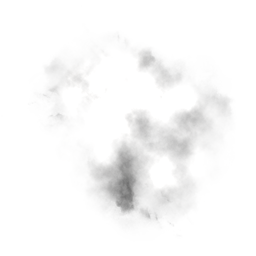
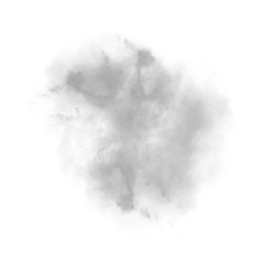
Humo arreglado y bonito

Changed region(s): [[0.2188, 0.1562, 0.8125, 0.8438]]

diff --git a/MiGrupo/Efectos/Humo.cs b/MiGrupo/Efectos/Humo.cs
@@ -2,6 +2,7 @@
 using Microsoft.DirectX.Direct3D;
 using System;
 using System.Collections.Generic;
+using System.Drawing;
 using System.Linq;
 using System.Text;
 using TgcViewer;
@@ -12,7 +13,7 @@ namespace AlumnoEjemplos.MiGrupo.Efectos
 {
     class Humo
     {
-
+        public float a;
         TgcBox box1;
         TgcBox box2;
         TgcBox box3;
@@ -31,7 +32,7 @@ namespace AlumnoEjemplos.MiGrupo.Efectos
 
         public Humo(Vector3 position)
         {
-
+            a = 255f;
             box1 = new TgcBox();
             box1.UVTiling = new Vector2(1, 1);
             box1.setPositionSize(position, new Vector3(200, 0, 200));
@@ -58,25 +59,38 @@ namespace AlumnoEjemplos.MiGrupo.Efectos
         public void render()
         {
             totalTime += GuiController.Instance.ElapsedTime;
-            if (totalTime < 10)
-            {
-                box1.Rotation = new Vector3(0.3f * totalTime, 0, 0);
-                box1.Size = new Vector3(box1.Size.X + totalTime, box1.Size.Y + totalTime, 0);
-                box1.updateValues();
+                
+                a -=   0.5f;
+                if (a > 0f)
+                {
+                    Color color1 = new Color();
+                    color1 = Color.FromArgb((int) a, box1.Color.R, box1.Color.G, box1.Color.B);
+                    box1.Color = color1;
+                    box1.Rotation = new Vector3(0.3f * totalTime, 0, 0);
+                    box1.Size = new Vector3(box1.Size.X + totalTime, box1.Size.Y + totalTime, 0);
+                    box1.updateValues();
 
-                box2.Rotation = new Vector3(0.1f * totalTime, 0.6f * totalTime, 0);
-                box2.Size = new Vector3(box2.Size.X + 1.1f * totalTime, box2.Size.Y + 0.8f * totalTime, 0);
-                box2.updateValues();
+                    Color color2 = new Color();
+                    color2 = Color.FromArgb((int)a, box2.Color.R, box2.Color.G, box2.Color.B);
+                    box2.Color = color2;
 
-                box3.Rotation = new Vector3(0.6f * totalTime, 0, 0.1f * totalTime);
-                box3.Size = new Vector3(box3.Size.X + 0.5f * totalTime, box3.Size.Y + 0.7f * totalTime, 0);
-                box3.updateValues();
+                    box2.Rotation = new Vector3(0.1f * totalTime, 0.6f * totalTime, 0);
+                    box2.Size = new Vector3(box2.Size.X + 1.1f * totalTime, box2.Size.Y + 0.8f * totalTime, 0);
+                    box2.updateValues();
+
+                    Color color3 = new Color();
+                    color3 = Color.FromArgb((int)a, box3.Color.R, box3.Color.G, box3.Color.B);
+                    box3.Color = color3;
+                    box3.Rotation = new Vector3(0.6f * totalTime, 0, 0.1f * totalTime);
+                    box3.Size = new Vector3(box3.Size.X + 0.5f * totalTime, box3.Size.Y + 0.7f * totalTime, 0);
+                    box3.updateValues();
 
 
-                box1.render();
-                box2.render();
-                box3.render();
-            }
+                    box1.render();
+                    box2.render();
+                    box3.render();
+                }
+
 
         }
 

diff --git a/MiGrupo/Barril.cs b/MiGrupo/Barril.cs
@@ -63,9 +63,11 @@ namespace AlumnoEjemplos.MiGrupo
             } 
             else
             {
-                explosion.render();
-                humo.render();
 
+                    explosion.render();
+                    humo.render();
+
+                
             }
                
         }

diff --git a/MiGrupo/Enemigo.cs b/MiGrupo/Enemigo.cs
@@ -110,6 +110,7 @@ namespace AlumnoEjemplos.MiGrupo
 
         public Enemigo(Vector3 posicionInicial, EscenarioManager escenarioManager)
         {
+            
             this.huellas = new HuellasManager(10);
             this.teMataron = false;
 
